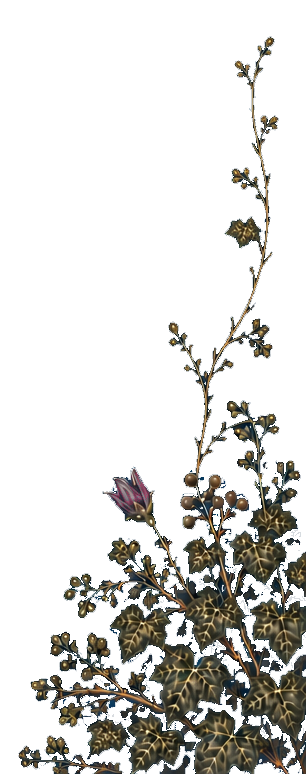
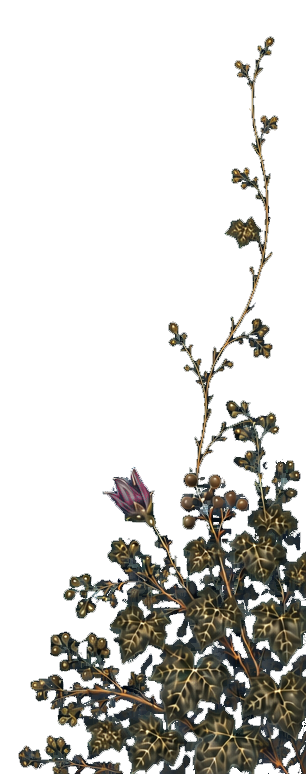
Refine light botanical frame

diff --git a/index.html b/index.html
@@ -466,17 +466,17 @@
       }
       .botanical-frame__upper-left {
         position: fixed;
-        top: -4px; left: -20px;
+        top: -4px; left: -44px;
         width: clamp(345px, calc((100vw - var(--maxw)) / 2 + 105px), 530px);
         aspect-ratio: 47 / 56;
-        background-image: url("assets/botanical-frame/painted-botanical-upper-left-light-ivory.webp?v=2");
+        background-image: url("assets/botanical-frame/painted-botanical-upper-left-light-ivory.webp?v=3");
       }
       .botanical-frame__lower-right {
         position: fixed;
         bottom: -46px; right: -8px;
         width: clamp(286px, calc((100vw - var(--maxw)) / 2 - 4px), 361px);
         aspect-ratio: 51 / 129;
-        background-image: url("assets/botanical-frame/painted-botanical-lower-right-light-ivory.webp?v=2");
+        background-image: url("assets/botanical-frame/painted-botanical-lower-right-light-ivory.webp?v=3");
       }
       .hero-lower { display: none !important; }
       html[data-theme="dark"] .botanical-frame__upper-left {

diff --git a/PROJECT_STATUS.md b/PROJECT_STATUS.md
@@ -14,7 +14,7 @@ This file records approved decisions and the verified implementation state. Alwa
 - Display font: Cormorant Garamond
 - Homepage and Cabinet light and dark themes must remain functional. The Game intentionally uses one fixed light theme, independent of the website theme preference.
 - The paired Ivory Ink and Petrol Ink themes use page-matched navigation backgrounds with a fine antique-gold hairline. Petrol Ink uses the balanced blue-green `#104a52` field, with coordinated `#185b61` and `#246a6d` surfaces: warmer and more saturated than the former blue-grey Marine Ink, but less green than the superseded Deep Teal study. Ivory Ink remains unchanged because its warm `#faf8f2` field already provides the clearest complementary light treatment. Petrol Ink is the first-visit default; a visitor’s explicit light or dark choice remains stored and takes precedence. The theme toggle keeps its 34 px interaction box and 28 px antique-gold face at every viewport. In the compact mobile header, only the half-filled glyph reduces from 20 px to 17 px; the face retains its dimensions while using a softer fill and half-pixel hairline.
-- At wide viewports, the approved painted botanical frame uses separate alpha-cleaned Ivory Ink and Petrol Ink derivatives while preserving the original artwork files. Both visible pieces are fixed to the viewport: the upper-left growth hangs slightly farther down from the moving top edge and remains clear of the `MZ` monogram, while the lower-right growth rises from the moving bottom edge. The derivatives take their foliage and gold colour values directly from the pristine source painting rather than applying a background-colour matte; only their alpha geometry and the light-theme fuchsia flower accents differ.
+- At wide viewports, the approved painted botanical frame uses separately processed Ivory Ink and Petrol Ink derivatives while preserving the original artwork files. Both visible pieces are fixed to the viewport: the upper-left growth hangs slightly farther down from the moving top edge and leaves a deliberate clear gap before the `MZ` monogram, while the lower-right growth rises from the moving bottom edge. Both derivatives take their foliage and gold colour values directly from the pristine source painting rather than applying a background-colour matte. Petrol Ink retains the tighter high-contrast extraction; Ivory Ink uses a fuller, softer alpha contour and warmer fuchsia flower accents so fine painted edges remain natural against the light field.
 - Homepage language options: English, Swedish, and Polish
 - The Swedish homepage uses Martyna’s supplied official Swedish institutional and postal address. English retains the existing English form; Polish intentionally falls back to that English form until separate Polish wording is supplied or approved. The translated email-button label is separate.
 

diff --git a/docs/visual-style.md b/docs/visual-style.md
@@ -92,7 +92,7 @@ The Cacao of Excellence programme’s official 2021 `Cocoa of Excellence Flavour
 - Keep asymmetric rounded corners soft rather than exaggerated.
 - Use botanical curves, seed-pod forms and worm-like lines as small accents.
 - Full-section floral dividers use reinforced gold and emerald stems with theme-aware contrast, while their berry terminals and geometry stay delicate. On phones, preserve the approved footprint and dimensions; reinforce only the compressed edges with a subtle same-colour treatment rather than lengthening or enlarging the ornament. Internal subsection and list rules remain visibly quieter.
-- At wide viewports, treat the painted botanical frame as a pair of viewport-fixed growths rather than page-bound decoration: the upper-left piece hangs from the current top edge, stays clear of the `MZ` monogram and the lower-right piece rises from the current bottom edge. Build both theme derivatives from the pristine source painting so the foliage and gold retain their original local contrast; use cleaned alpha geometry instead of a page-colour veil, and reserve the warmer fuchsia flower treatment for Ivory Ink. Do not alter the preserved source artwork.
+- At wide viewports, treat the painted botanical frame as a pair of viewport-fixed growths rather than page-bound decoration: the upper-left piece hangs from the current top edge, leaves a deliberate clear gap before the `MZ` monogram and the lower-right piece rises from the current bottom edge. Build both theme derivatives from the pristine source painting so the foliage and gold retain their original local contrast, but process their alpha contours independently: Petrol Ink keeps the tighter high-contrast extraction, while Ivory Ink preserves a fuller, softer painted edge and uses the warmer fuchsia flower treatment. Do not add a page-colour veil or alter the preserved source artwork.
 - Keep ornament subordinate to information and interaction.
 - Avoid emoji as primary visual elements and avoid oversized decorative icons.
 
